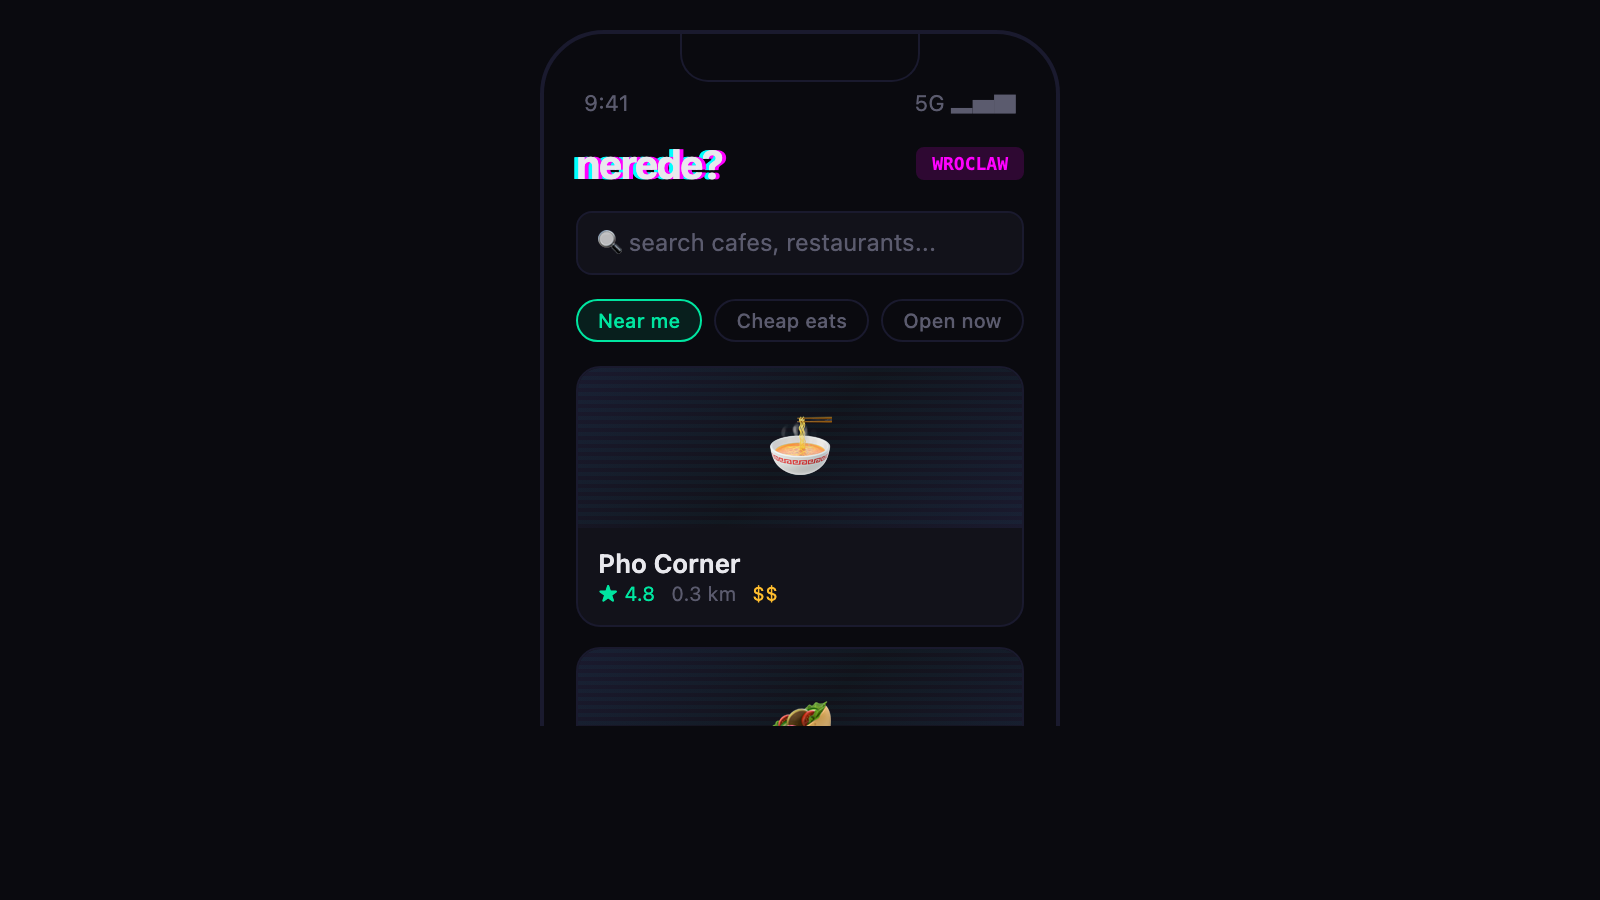
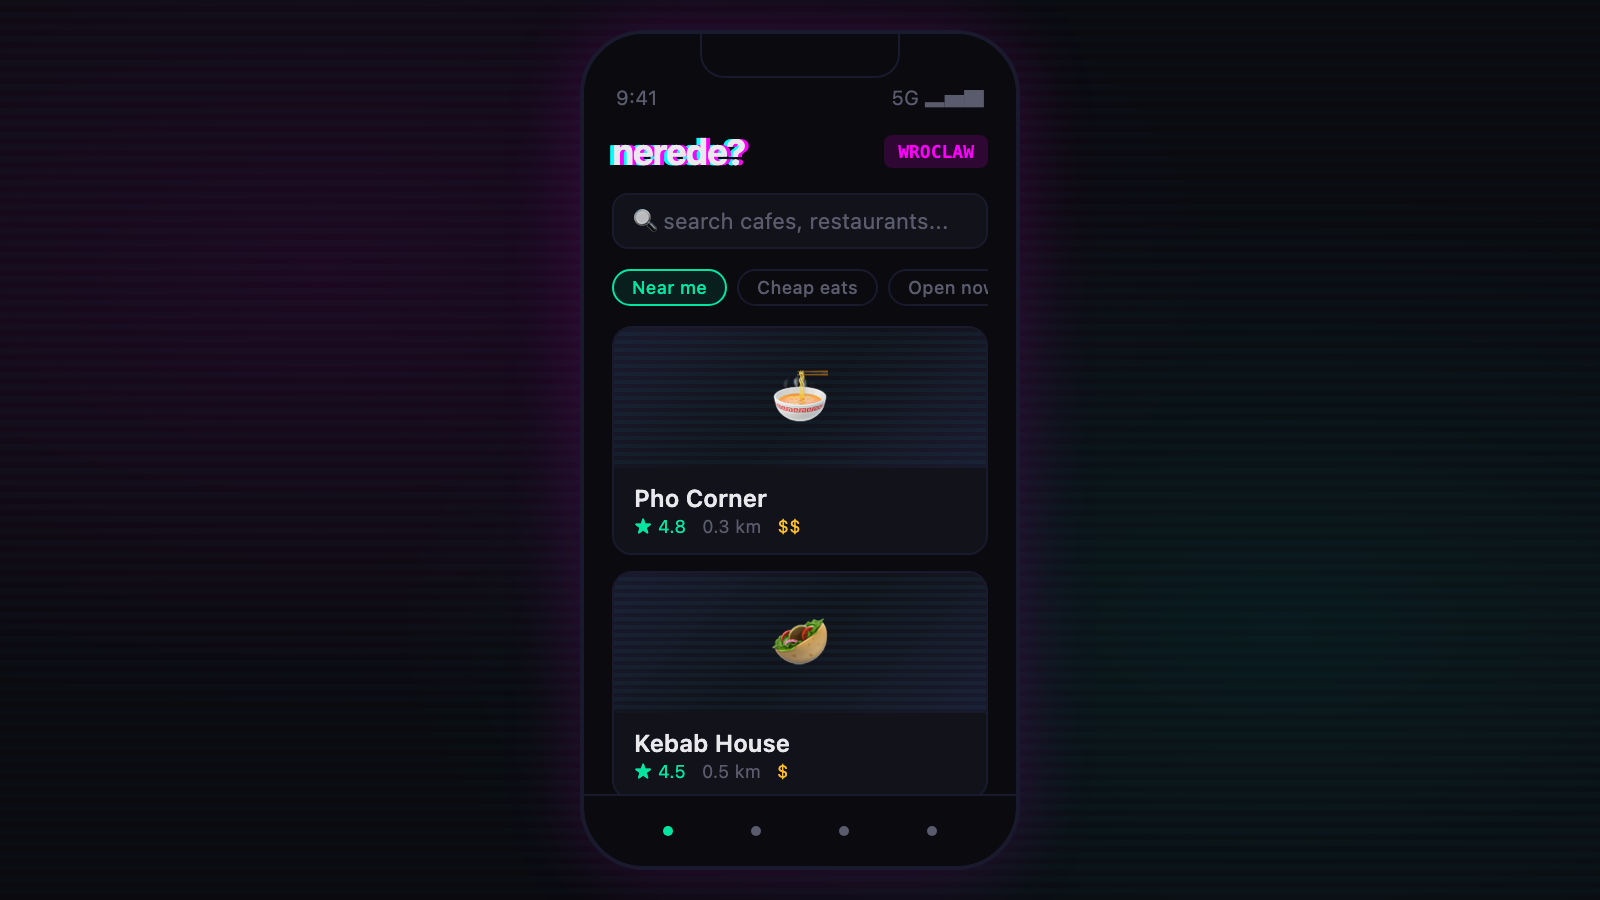
fix: tighten ogrenci-nerede mockup to fit viewport

diff --git a/mockups/ogrenci-nerede.html b/mockups/ogrenci-nerede.html
@@ -2,60 +2,77 @@
 <html lang="en">
 <head>
 <meta charset="UTF-8">
-<meta name="viewport" content="width=800">
 <style>
   * { margin: 0; padding: 0; box-sizing: border-box; }
   body {
     width: 800px; height: 450px; overflow: hidden;
     background: #0a0a0f;
-    display: flex; align-items: center; justify-content: center;
     font-family: -apple-system, BlinkMacSystemFont, 'SF Pro Text', sans-serif;
+    position: relative;
+  }
+  .glitch-bg {
+    position: absolute; inset: 0;
+    background:
+      radial-gradient(ellipse at 20% 30%, rgba(255,0,255,0.08), transparent 50%),
+      radial-gradient(ellipse at 80% 70%, rgba(0,255,255,0.06), transparent 50%);
+  }
+  .scanlines {
+    position: absolute; inset: 0;
+    background: repeating-linear-gradient(
+      0deg, transparent, transparent 3px, rgba(0,255,255,0.015) 3px, rgba(0,255,255,0.015) 6px
+    );
+    pointer-events: none;
   }
   .phone {
-    width: 260px; height: 420px; background: #0a0a0f;
+    width: 220px; height: 420px; background: #0a0a0f;
     border: 2px solid #1a1a2e; border-radius: 32px;
-    overflow: hidden; position: relative; display: flex; flex-direction: column;
+    overflow: hidden; display: flex; flex-direction: column;
+    z-index: 1;
+    box-shadow: 0 0 40px rgba(255,0,255,0.15);
+    position: absolute; top: 15px; left: 50%; transform: translateX(-50%);
   }
   .notch {
-    width: 120px; height: 24px; background: #0a0a0f;
-    border-radius: 0 0 14px 14px; margin: 0 auto;
+    width: 100px; height: 22px; background: #0a0a0f;
+    border-radius: 0 0 12px 12px; margin: 0 auto;
     border: 1px solid #1a1a2e; border-top: none;
+    flex-shrink: 0;
   }
   .status-bar {
-    display: flex; justify-content: space-between; padding: 4px 20px 0;
-    font-size: 11px; color: #5b5b6e;
+    display: flex; justify-content: space-between; padding: 4px 16px 0;
+    font-size: 10px; color: #5b5b6e;
+    flex-shrink: 0;
   }
-  .app-content { flex: 1; padding: 12px 16px; overflow: hidden; }
+  .app-content { flex: 1; padding: 10px 14px; overflow: hidden; min-height: 0; }
   .app-header {
-    display: flex; justify-content: space-between; align-items: center; margin-bottom: 12px;
+    display: flex; justify-content: space-between; align-items: center; margin-bottom: 10px;
   }
   .app-title {
-    font-size: 20px; font-weight: 700; color: #e8e8ed;
+    font-size: 18px; font-weight: 700; color: #e8e8ed;
     text-shadow: 2px 0 #ff00ff, -2px 0 #00ffff;
     letter-spacing: -0.5px;
   }
   .glitch-badge {
-    font-size: 9px; padding: 3px 8px; border-radius: 4px;
+    font-size: 9px; padding: 3px 7px; border-radius: 4px;
     background: rgba(255,0,255,0.15); color: #ff00ff;
     font-weight: 600; font-family: monospace; text-transform: uppercase;
   }
   .search-bar {
-    width: 100%; height: 32px; background: #12121a; border: 1px solid #1a1a2e;
-    border-radius: 8px; padding: 0 10px; font-size: 12px; color: #5b5b6e;
-    display: flex; align-items: center; margin-bottom: 12px;
+    width: 100%; height: 28px; background: #12121a; border: 1px solid #1a1a2e;
+    border-radius: 8px; padding: 0 10px; font-size: 11px; color: #5b5b6e;
+    display: flex; align-items: center; margin-bottom: 10px;
   }
-  .tags { display: flex; gap: 6px; margin-bottom: 12px; overflow: hidden; }
+  .tags { display: flex; gap: 5px; margin-bottom: 10px; overflow: hidden; }
   .tag {
-    padding: 4px 10px; border-radius: 12px; font-size: 10px; font-weight: 500;
+    padding: 3px 9px; border-radius: 12px; font-size: 9px; font-weight: 500;
     white-space: nowrap; border: 1px solid #1a1a2e; color: #5b5b6e;
   }
   .tag.active { background: rgba(0,229,160,0.1); border-color: #00e5a0; color: #00e5a0; }
   .food-card {
-    background: #12121a; border: 1px solid #1a1a2e; border-radius: 12px;
-    overflow: hidden; margin-bottom: 10px;
+    background: #12121a; border: 1px solid #1a1a2e; border-radius: 10px;
+    overflow: hidden; margin-bottom: 8px;
   }
   .food-img {
-    width: 100%; height: 80px; position: relative; overflow: hidden;
+    width: 100%; height: 70px; position: relative; overflow: hidden;
   }
   .food-img-bg {
     width: 100%; height: 100%;
@@ -64,37 +81,30 @@
   .food-img-glitch {
     position: absolute; top: 0; left: 0; width: 100%; height: 100%;
     background: repeating-linear-gradient(
-      0deg, transparent, transparent 2px, rgba(0,255,255,0.03) 2px, rgba(0,255,255,0.03) 4px
+      0deg, transparent, transparent 2px, rgba(0,255,255,0.04) 2px, rgba(0,255,255,0.04) 4px
     );
   }
   .food-emoji {
     position: absolute; top: 50%; left: 50%; transform: translate(-50%,-50%);
-    font-size: 32px;
+    font-size: 28px;
   }
-  .food-info { padding: 10px; }
-  .food-name { font-size: 13px; font-weight: 600; color: #e8e8ed; margin-bottom: 2px; }
-  .food-meta { font-size: 10px; color: #5b5b6e; display: flex; gap: 8px; }
+  .food-info { padding: 8px 10px; }
+  .food-name { font-size: 12px; font-weight: 600; color: #e8e8ed; margin-bottom: 2px; }
+  .food-meta { font-size: 9px; color: #5b5b6e; display: flex; gap: 8px; }
   .food-rating { color: #00e5a0; }
   .price { color: #ffbd2e; }
   .bottom-nav {
-    height: 44px; border-top: 1px solid #1a1a2e; display: flex;
+    height: 36px; border-top: 1px solid #1a1a2e; display: flex;
     align-items: center; justify-content: space-around; padding: 0 20px;
+    flex-shrink: 0;
   }
-  .nav-dot { width: 6px; height: 6px; border-radius: 50%; background: #5b5b6e; }
+  .nav-dot { width: 5px; height: 5px; border-radius: 50%; background: #5b5b6e; }
   .nav-dot.active { background: #00e5a0; }
-  .side-text {
-    position: absolute; right: 340px; top: 50%; transform: translateY(-50%);
-    text-align: right;
-  }
-  .side-title { font-size: 24px; font-weight: 700; color: #e8e8ed; margin-bottom: 8px; text-shadow: 1px 0 #ff00ff, -1px 0 #00ffff; }
-  .side-desc { font-size: 13px; color: #5b5b6e; line-height: 1.6; max-width: 200px; margin-left: auto; }
 </style>
 </head>
 <body>
-  <div class="side-text">
-    <div class="side-title">nerede yer?</div>
-    <div class="side-desc">where do students eat?<br>discover, rate, share.</div>
-  </div>
+  <div class="glitch-bg"></div>
+  <div class="scanlines"></div>
   <div class="phone">
     <div class="notch"></div>
     <div class="status-bar"><span>9:41</span><span>5G ▂▅▇</span></div>
